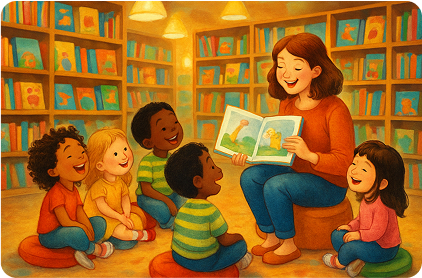
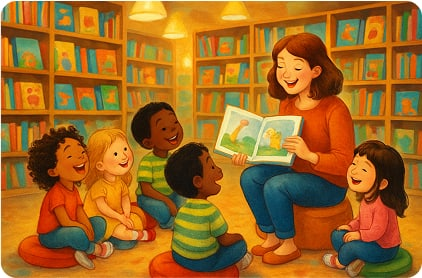
fix images size

diff --git a/src/partials/events.html b/src/partials/events.html
@@ -12,12 +12,12 @@
         <picture>
           <source
             srcset="
-              ./img/events/family-image-dt.png    1x,
-              ./img/events/family-image-dt-2x.png 2x
+              ./img/events/family-image-dt.webp    1x,
+              ./img/events/family-image-dt-2x.webp 2x
             "
           />
           <img
-            src="./img/events/family-image-dt.png"
+            src="./img/events/family-image-dt.webp"
             alt="Cozy Book Club meeting"
             class="events-image"
           />
@@ -37,12 +37,12 @@
         <picture>
           <source
             srcset="
-              ./img/events/team-image-dt.png    1x,
-              ./img/events/team-image-dt-2x.png 2x
+              ./img/events/team-image-dt.webp    1x,
+              ./img/events/team-image-dt-2x.webp 2x
             "
           />
           <img
-            src="./img/events/team-image-dt.png"
+            src="./img/events/team-image-dt.webp"
             alt="Writing Workshop"
             class="events-image"
           />
@@ -62,12 +62,12 @@
         <picture>
           <source
             srcset="
-              ./img/events/children-image-dt.png    1x,
-              ./img/events/children-image-dt-2x.png 2x
+              ./img/events/children-image-dt.webp    1x,
+              ./img/events/children-image-dt-2x.webp 2x
             "
           />
           <img
-            src="./img/events/children-image-dt.png"
+            src="./img/events/children-image-dt.webp"
             alt="Author Reading"
             class="events-image"
           />
